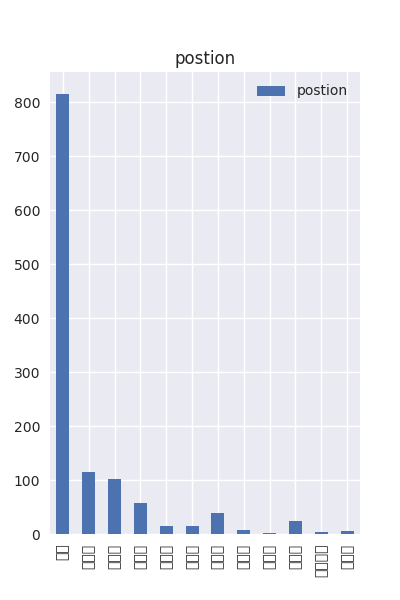
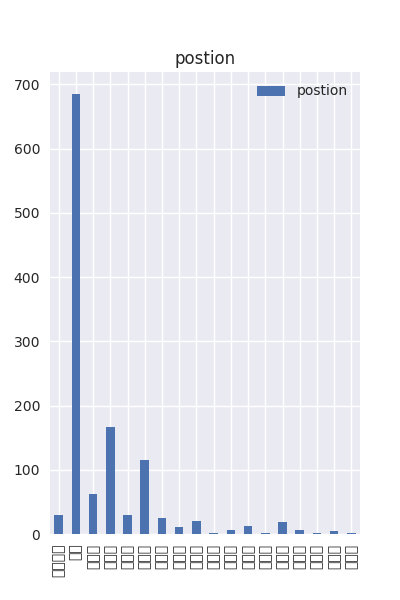
update

Changed region(s): [[0.03, 0.12, 0.9, 0.96], [0.03, 0.51, 0.09, 0.63], [0.03, 0.42, 0.09, 0.48]]

diff --git a/zhilian/zhilian.py b/zhilian/zhilian.py
@@ -5,11 +5,16 @@ import os
 import csv
 import sys 
 from collections import defaultdict
+from queue import Queue
+import threading
+
+
 
 
 
 class Zhilian():
 	def __init__(self,postion,keyword):
+		super().__init__()
 		self.main_url = "http://sou.zhaopin.com/jobs/searchresult.ashx?jl=%s&kw=%s&sm=0&p=%s"
 		self.user_agent = "Mozilla/5.0 (X11; Linux x86_64) AppleWebKit/537.36 (KHTML, like Gecko) Ubuntu Chromium/58.0.3029.110 Chrome/58.0.3029.110 Safari/537.36"
 		self.headers = {
@@ -19,10 +24,21 @@ class Zhilian():
 		self.file_path = os.path.abspath('.') + '/resource/zhilian/'
 		self.POSTION = postion
 		self.KEYWORD = keyword
+		self.url_queue = self.generate_url()
+
+
+	#生成url 队列
+	def generate_url(self):
+		q = Queue()
+		for i in range(20):
+			url = self.main_url % (self.POSTION,self.KEYWORD,i)
+			q.put(url)
+		return q
+
 	#根据参数获得响应
 	def request_url(self):
-		for i in range(20):			#20 为可选参数
-			r = requests.get(self.main_url % (self.POSTION,self.KEYWORD,i),headers=self.headers)  #参数可选
+		for i in range(20):
+			r = requests.get(self.main_url % (self.POSTION,self.KEYWORD,i),headers=self.headers) 
 			soup = BeautifulSoup(r.text,'lxml')
 			yield soup
 
@@ -35,8 +51,6 @@ class Zhilian():
 
 	#开始保存提取到的信息
 	def get_job_info(self):
-		soup = self.request_url()
-
 		for job_list in self.get_job_list():
 			for job in job_list[1:]:
 				info = {}
@@ -54,7 +68,10 @@ class Zhilian():
 
 				info['details_url'] = job.find_all('a')[0].get('href')
 				self.job_infos.append(info)
+		return self.job_infos
 		
+
+	def get_infos(self):
 		return self.job_infos
 
 	#对工资划分区间，用于绘图，原始数据未改变
@@ -110,5 +127,4 @@ class Zhilian():
 			f.write(str(fileName) + '\n')
 			for job_info in self.job_infos:
 				f.write(str(job_info[fileName]) + '\n')
-
 

diff --git a/mainWIndow.py b/mainWIndow.py
@@ -3,6 +3,7 @@ from PyQt5.QtWidgets import QDesktopWidget
 import sys
 import os
 from handle import Handle
+from zhilian.zhilian import Zhilian
 
 class Ui_MainWindow(object):
     def setupUi(self, MainWindow):
@@ -48,6 +49,8 @@ class Ui_MainWindow(object):
         self.PostionImage.setGeometry(QtCore.QRect(20, 80, 500, 600))
         self.PostionImage.setAlignment(QtCore.Qt.AlignCenter)
         self.PostionImage.setObjectName("PostionImage")
+
+        #self.show_image()
         
         self.PostionLabel = QtWidgets.QLabel(self.centralwidget)
         self.PostionLabel.setGeometry(QtCore.QRect(20, 5, 300, 30))
@@ -86,15 +89,23 @@ class Ui_MainWindow(object):
         self.KeywordLabel.setText(_translate("MainWindow", "Key word:"))
 
     def work(self):
-        self.workTheard = Handle()
+
+        postion = self.postionEdit.text()
+        keyword = self.keywordEdit.text()
+        self.workTheard = Handle(postion,keyword)
         self.workTheard.start()
         self.workTheard.trigger.connect(self.show_image)
+
+
         
-    def show_image(self):
+    def show_image(self,job_list):
         PixMapSalary = QtGui.QPixmap(os.getcwd() + '/resource/zhilian/images/1.png').scaled(400,600)
         self.SalaryImage.setPixmap(PixMapSalary)
         PixMapPostion = QtGui.QPixmap(os.getcwd() + '/resource/zhilian/images/2.png').scaled(500,500)
         self.PostionImage.setPixmap(PixMapPostion)
+
+        for i in range(20):
+            self.listWidget.addItem(job_list[i]['staff'])
         
 
 
@@ -104,7 +115,9 @@ if __name__ == '__main__':
     ui = Ui_MainWindow()
     ui.setupUi(MainWindow)
     MainWindow.show()
-    sys.exit(app.exec_())    
+
+    sys.exit(app.exec_()) 
+
 
 
 

diff --git a/handle.py b/handle.py
@@ -5,22 +5,24 @@ from PyQt5.QtCore import *
 
 
 class Handle(QThread):
-	trigger = pyqtSignal()
-	def __init__(self):
+	trigger = pyqtSignal(list)
+	def __init__(self,postion,keyword):
 		super(Handle,self).__init__()
+		self.postion = postion
+		self.keyword = keyword
 
 	def run(self):
-		zhilian_info = Zhilian('北京','石油')
+		zhilian_info = Zhilian(self.postion,self.keyword)
 		zhilian_image = ZhilianGenImage()
+		print('en')
 
-		zhilian_info.get_job_info()
-		salary_fileName = zhilian_info.salary_handle()
-		postion_fileName = zhilian_info.position_handle()
+		job_list = zhilian_info.get_job_info()
+
 
 		zhilian_image.generate_image('postion_for_image.csv','1.png','bar')
 		zhilian_image.generate_image('salary_for_image.csv','2.png','pie')
 
-		self.trigger.emit()
+		self.trigger.emit(job_list)
 
 
 
